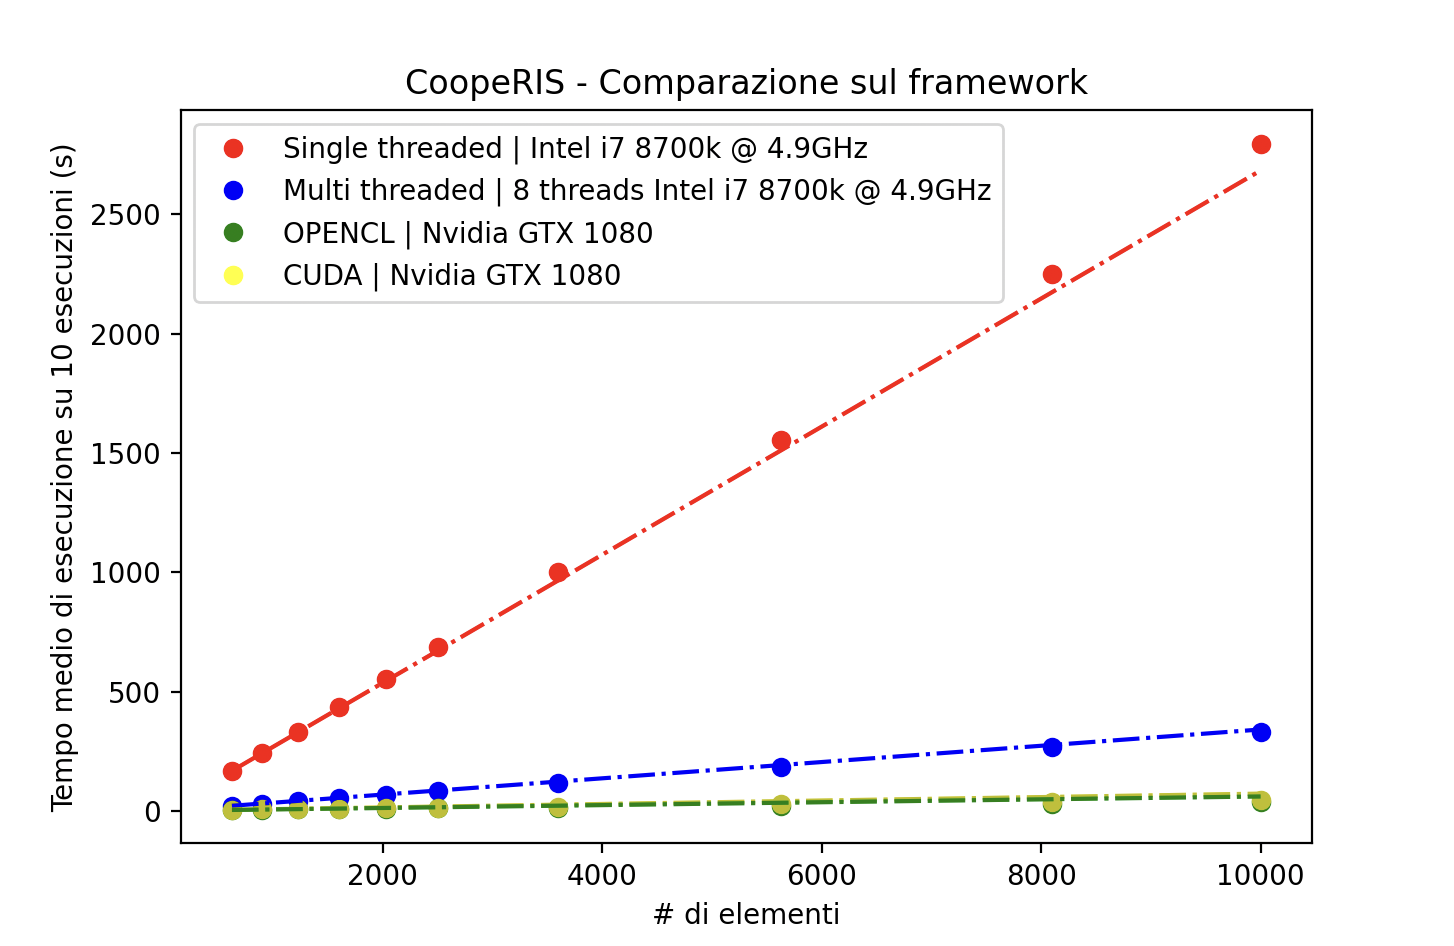
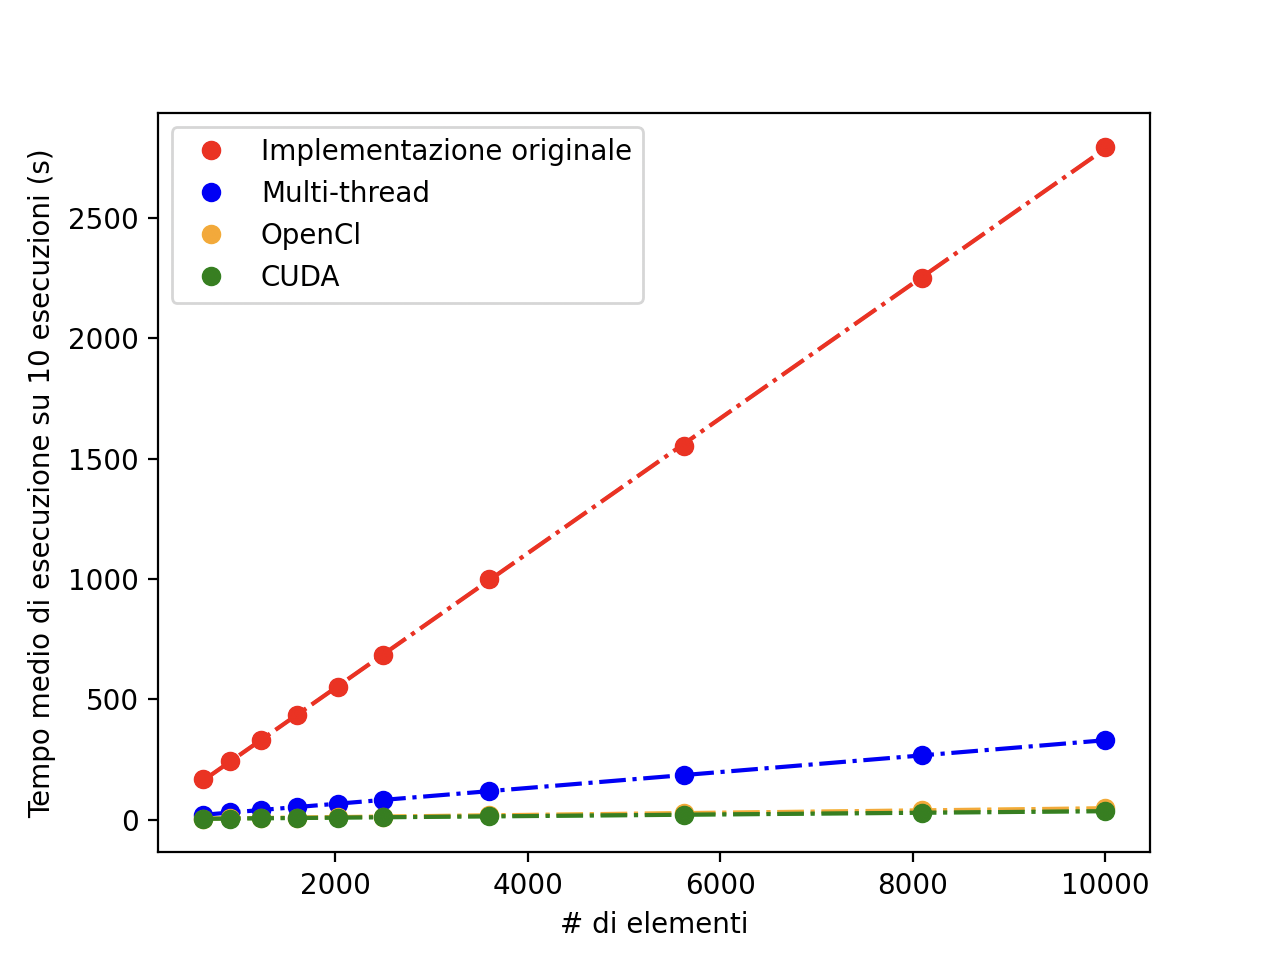
feat(cha 4): conclude writing

diff --git a/chapters/4-Risultati.tex b/chapters/4-Risultati.tex
@@ -1,24 +1,26 @@
 \chapter{Risultati}
 \label{ch:risultati}
 
-In questo capitolo verranno presentati i risultati ottenuti durante la fase di
-benchmarking della libreria nella procedura \textit{gain}, ovvero quella
-ottimizzata. Questa fase è di notevole importanza, in quanto permette di
-valutare il lavoro svolto, confrontando tutte le implementazioni tra loro, oltre
-all'implementazione originale, per avere un quadro completo della situazione finale.
+In questo capitolo vengono presentati i risultati ottenuti durante la fase di
+benchmarking della libreria e della procedura \textit{gain}, ovvero quella
+soggetta alle ottimizzazioni nel capitolo precedente. Questa fase è di notevole importanza,
+in quanto permette di valutare il lavoro svolto, confrontando tutti i framework di
+parallelizzazione tra loro, oltre che all'implementazione originale, per avere un
+quadro completo del prodotto finale.
 
 \section{Metodologia di valutazione}
 \label{sec:bencharmking}
 
-Per poter valutare le prestazioni della libreria, sono stati eseguiti diversi test di benchmarking,
-che hanno permesso di confrontare le diverse implementazioni tra loro. Inoltre,
-è stato fondamentale valutare la correttezza matematica della procedura
-modificata, per garantire che non siano stati introdotti errori durante la fase di
-programmazione, per tutti e tre i framework di parallelizzazione. In merito allo
-svolgimento, la liberia \textit{CoopeRIS} è dotata di un set di \textit{unit
-test}, che sono stati eseguiti durante la fase di sviluppo. Tutte le misurazioni
-sono state eseguite su macchine con diverse configurazioni hardware, per poter
-valutare le prestazioni in diversi scenari.
+Per poter valutare le prestazioni della libreria sono stati eseguiti diversi
+test di benchmarking che hanno permesso di confrontare tra loro le prestazioni, i
+miglioramenti e le differenze delle diverse soluzioni. Inoltre, è stato fondamentale
+valutare la correttezza matematica della procedura modificata per assicurarsi che
+non siano stati introdotti errori durante la fase di sviluppo, per tutti e tre i
+framework di parallelizzazione. In merito allo svolgimento, la liberia \textit{CoopeRIS}
+è dotata di un insieme di \textit{unit test} che sono stati eseguiti per
+garantirlo. Tutte le misurazioni delle tempistiche sono state eseguite su macchine
+con diverse configurazioni hardware per poter valutare le prestazioni in scenari
+differenti.
 
 \section{Benchmarking della libreria}
 \label{sec:benchmarking}
@@ -26,24 +28,41 @@ valutare le prestazioni in diversi scenari.
 Il benchmarking della procedura ottimizzata e della libreria è stato eseguito
 senza la necessità di alcuno dei framework esterni citati nel capitolo
 \ref{subsec:risframework}. Questo è stato essenziale per poter valutare le prestazioni
-della libreria in modo puro e indipendente. Per fare ciò, è stato creato un programma
-molto semplice, che ha eseguito ripetutamente le procedure sotto esame, misurando
-il tempo di esecuzione di ciascuna di esse. Il programma è stato eseguito su
-diverse macchine, soprattutto per
-poter valutare situazioni con un elevato numero di core CPU. Per garantire una maggiore
-precisione, ciascuna misurazione è stata eseguita più volte, da un minimo di dieci
-fino ad un massimo di mille, per calcolarne la media ed eliminare eventuali
-errori dovuti a fluttuazioni dell'ambiente di esecuzione.
+in modo puro e indipendente. Per fare ciò, è stato creato un programma molto semplice,
+che ha eseguito ripetutamente le procedure sotto esame, misurando tramite la libreria
+\textit{chrono} di C++ il tempo di esecuzione di ciascuna di esse. Il programma è
+stato eseguito su diverse macchine, soprattutto per poter valutare situazioni
+con un elevato numero di core CPU. Per garantire una maggiore precisione,
+ciascuna misurazione è stata eseguita più volte, da un minimo di dieci fino ad un
+massimo di mille, per calcolarne la media ed eliminare eventuali errori dovuti a
+fluttuazioni dell'ambiente di esecuzione.
 
 \subsection{Risultati complessivi}
 \label{subsec:risultati-complessivi}
 
 I risultati complessivi del benchmarking della libreria sulla procedura \textit{gain}
 sono stati molto positivi. Le ottimizzazioni apportate hanno ottenuto un notevole
-incremento prestazionale, raggiungendo in alcuni casi un incremento di
-prestazioni fino a due ordini di grandezza nei casi in cui le RISs contenevano
-il numero massimo di elementi supportati. Questo dimostra totalmente l'efficacia
-delle ottimizzazioni apportate.
+incremento prestazionale, raggiungendo in alcuni casi un aumento fino a due
+ordini di grandezza nei casi in cui le RISs presentavano il numero massimo di
+elementi supportati. Nelle figure \ref{fig:risultati-complessivi} e \ref{fig:risultati-complessivi-log}
+sono riportate le misurazioni del tempo di esecuzione, rispettivamente in scala
+lineare e scala logaritmica per una miglior visualizzazione dei dati, in funzione
+del numero di elementi della RIS simulata. I punti rappresentano rispettivamente
+i tempi campionati di esecuzione della procedura non ottimizzata e della
+procedura ottimizzata tramite multi-threading, OpenCL e CUDA, mentre le linee
+tratteggiate rappresentano il fit dei dati. L'interesse principale di quest'ultime
+è quello di valutare l'effettiva linearità in termini di complessità del problema
+e per individuare eventuali punti in cui l'aggiunta di procedure lineari per implementare
+la parallelizzazione possano aver introdotto un overhead non trascurabile. In
+figura \ref{fig:perc-better} è riportata la percentuale di tempo di esecuzione
+rispetto all'impostazione originale rispetto al numero di elementi della RIS. Tutti
+i test dimostrano una chiara superiorità delle soluzioni che sfruttano il calcolo
+parallelo, con le implementazioni su GPU che ottengono un tempo di esecuzione da
+l'\textit{1,2\%} all'{1,6\%} rispetto all'implementazione originale, mentre per
+quella su CPU si ottengono valori che variano dal \textit{10,2\%} al \textit{13,3\%},
+perfettamente in linea con l'ideale \textit{12,5\%} di miglioramento atteso. I benchmark
+sono stati eseguiti su una macchina con processore Intel Core i7-8700K, con 8
+core fisici e NVIDIA GeForce GTX 1080.
 
 \begin{figure}[!ht]
   \centering
@@ -52,60 +71,179 @@ delle ottimizzazioni apportate.
   scala lineare]{{\includegraphics[width=8cm]{images/results/gain-over-elem.png}\label{fig:risultati-complessivi}}}
   \subfloat[
   \centering
-  scala logaritmica]{{\includegraphics[width=8cm]{images/results/log-gain-over-elem.png}\label{fig:risultati-complessivi-log}}}
+  scala logaritmica]{{\includegraphics[width=8cm]{images/results/gain-log-over-elem.png}\label{fig:risultati-complessivi-log}}}
   \caption{Risultati complessivi del benchmarking}
 \end{figure}
 
-Nelle figure \ref{fig:risultati-complessivi} e
-\ref{fig:risultati-complessivi-log} sono riportati i risultati complessivi del
-benchmarking della libreria. La linea tratteggiata rappresenta il tempo di esecuzione
-ideale, calcolato come il tempo della procedura sul tempo con minor numero di
-elementi moltiplicato per ogni successivo numero di elementi. I punti invece rappresentano
-rispettivamente i tempi di esecuzione della procedura non ottimizzata e della procedura
-ottimizzata tramite multi-threading, OpenCL e CUDA. In figura \ref{fig:risultati-complessivi-log}
-sono riportati i risultati in scala logaritmica, per migliorare la leggibilità
-dei dati, soprattutto nei casi delle implementazioni tramite GPU.
+\begin{figure}[!ht]
+  \begin{minipage}[t]{0.5\linewidth}
+    \centering
+    \includegraphics[width=8cm]{images/results/gain-perc-better.png}
+    \begin{adjustwidth}
+      {0pt}{5pt}
+      \begin{varwidth}
+        {8cm}
+        \caption{Percentuale di tempo di esecuzione rispetto all'impostazione
+        originale}
+        \label{fig:perc-better}
+      \end{varwidth}
+    \end{adjustwidth}
+  \end{minipage}
+  \begin{minipage}[t]{0.5\linewidth}
+    \centering
+    \includegraphics[width=8cm]{images/results/gain-comp-threads.png}
+    \begin{adjustwidth}
+      {0pt}{5pt}
+      \begin{varwidth}
+        {8cm}
+        \caption{Comparazione performance tra diverso numero di thread}
+        \label{fig:risultati-cpu}
+      \end{varwidth}
+    \end{adjustwidth}
+  \end{minipage}
+\end{figure}
 
 \subsection{Risultati: CPU single-thread vs multi-thread}
 \label{subsec:risultati-cpu}
 
 Particolare attenzione è stata posta nel confronto tra l'implementazione
-originale e multi-thread della procedura \textit{gain}. Molteplici test e
-benchmark sono stati eseguiti per valutare le prestazioni con diversi numeri di
-thread CPU. In figura \ref{fig:risultati-cpu} sono riportati i risultati ottenuti
-al variare del numero di thread utilizzati, per quattro delle configurazioni di
-elementi RISs. Si evince chiaramente come l'implementazione multi-thread, ad un
-numero di thread molto elevato, saturi le prestazioni della CPU e non permetta di
-ottenere ulteriori incrementi prestazionali, dovuto al crescente aumento lineare
-di overhead necessario all'avvio e sincronizzazione di tutti i thread. Si noti inoltre
-come, superata la soglia dei \textit{65} thread, si verifichi un fenomeno dove l'aggiunta
-di un thread che necessariamente deve essere eseguito tramite \textit{hyperthreading},
-riduca la performance generale della procedura. Invece, in figura
+originale e multi-thread. Molteplici test e benchmark sono stati eseguiti per valutare
+le prestazioni con diversi numeri di thread CPU. In figura
+\ref{fig:risultati-cpu} sono riportati i risultati ottenuti al variare del
+numero di thread utilizzati per quattro delle configurazioni di elementi RISs, nello
+specifico \textit{625}, \textit{2500}, \textit{5625} e \textit{10000} elementi.
+Si evince chiaramente come la soluzione multi-thread, ad un numero di thread molto
+elevato, saturi le prestazioni della CPU e non permetta di ottenere ulteriori
+incrementi prestazionali, dovuto al crescente overhead introdotto per processare
+i risultati parziali dei thread, oltre al costo di creazione e gestione dei
+thread stessi. Il caso più interessante è quello con \textit{625} elementi, dove
+si può osservare chiaramente come da circa \textit{60} thread in poi, il costo di
+un ulteriore thread peggiori le prestazioni della procedura, rendendo quindi
+inutile ogni ulteriore incremento. Si noti inoltre come, superata la soglia dei
+\textit{65} thread, si verifichi un fenomeno dove l'aggiunta di un thread che
+necessariamente deve essere eseguito tramite \textit{hyperthreading}, riduca la
+performance generale della procedura. Invece, in figura
 \ref{fig:jobs-per-thread} è riportato il confronto tra la grandezza dei dati da
-elaborare per thread, al variare del numero di thread utilizzati. Si ritrovano
+elaborare per thread, al variare del numero di thread utilizzati. Si ritrova
 anche qui lo stesso fenomeno di diminuzione delle prestazioni dovuto all'\textit{hyperthreading}.
+Per concludere, in figura \ref{fig:thread-over-elem} è riportato il confronto tra
+il numero di elementi RISs e il numero di thread utilizzati, in scala
+logaritmica. Anche qui, la linea tratteggiata rappresenta il fit dei dati, che evidenzia
+l'effettiva linearità del problema e la corretta scalabilità della procedura.
+Inoltre si osserva come, nei casi con numero di elementi RISs basso, le
+misurazioni con numero massimo di thread siano leggermente inferiori rispetto a
+quelle con un numero minore, evidenziando l'overhead introdotto da questo tipo di
+parallelizzazione. Questi dati sono di fondamentale importanza per poter
+valutare il numero ottimale di thread da utilizzare per ottenere le migliori
+prestazioni possibili. I test in riferimento sono stati eseguiti su una macchina
+con processore AMD Ryzen Threadripper 3990X, con 64 core fisici e 128 thread per
+le figure \ref{fig:risultati-cpu} e \ref{fig:jobs-per-thread}, mentre per la figura
+\ref{fig:thread-over-elem} su 2x Intel Xeon E5-2680 v4, con 14 core fisici e 28
+thread, quindi 56 thread in totale.
 
 \begin{figure}[!ht]
   \begin{minipage}[t]{0.5\linewidth}
     \centering
-    \includegraphics[width=8cm]{images/results/comp-threads.png}
-    \caption{Comparazione performance tra diverso numero di thread}
-    \label{fig:risultati-cpu}
+    \includegraphics[width=8cm]{images/results/gain-jobs-per-thread.png}
+    \begin{adjustwidth}
+      {5pt}{0pt}
+      \begin{varwidth}
+        {8cm}
+        \caption{Comparazione per grandezza di dati da computare per thread}
+        \label{fig:jobs-per-thread}
+      \end{varwidth}
+    \end{adjustwidth}
   \end{minipage}
   \begin{minipage}[t]{0.5\linewidth}
     \centering
-    \includegraphics[width=8cm]{images/results/jobs-per-thread.png}
-    \caption{Comparazione per grandezza di dati da computare per thread}
-    \label{fig:jobs-per-thread}
+    \includegraphics[width=8cm]{images/results/gain-thread-over-elem.png}
+    \begin{adjustwidth}
+      {5pt}{0pt}
+      \begin{varwidth}
+        {8cm}
+        \caption{Comparazione per thread al variare del numero di elementi RISs}
+        \label{fig:thread-over-elem}
+      \end{varwidth}
+    \end{adjustwidth}
   \end{minipage}
 \end{figure}
 
-\subsection{Risultati: Cuda vs OpenCL}
+\subsection{Risultati: CUDA vs OpenCL}
 \label{subsec:risultati-cuda-opencl}
 
-\lipsum[1]
+In figura \ref{fig:risultati-cuda-opencl} si trova la comparazione percentuale delle
+prestazioni dei framework GPU al variare del numero di elementi RISs. La
+baseline al \textit{100\%} rappresenta il tempo di esecuzione della procedura tramite
+CUDA allo specifico numero di elementi. Si può osservare come l'implementazione
+tramite CUDA sia leggermente più performante rispetto a quella tramite OpenCL, con
+una diminuzione prestazionale che varia dal 20\% al 37,5\%. Inoltre nella
+misurazione è stato volutamente omesso il tempo di inizializzazione degli
+oggetti \textit{ReconfigurableIntelligentSurface}, che in OpenCL comprende la
+compilazione del kernel della funzione \textit{gain} a runtime, poiché è un'operazione
+che viene eseguita una sola volta all'avvio del framework e non impattante nel
+contesto generale di una simulazione. I risultati sono stati ottenuti su una macchina
+con scheda grafica NVIDIA GeForce GTX 1080.
 
-\section{Dimostrazione sul framework}
+\begin{figure}[!ht]
+  \begin{minipage}[t]{0.5\linewidth}
+    \centering
+    \includegraphics[width=8cm]{images/results/gain-cuda-vs-opencl.png}
+    \begin{adjustwidth}
+      {0pt}{5pt}
+      \begin{varwidth}
+        {8cm}
+        \caption{Differenza percentuale tra CUDA e OpenCL}
+        \label{fig:risultati-cuda-opencl}
+      \end{varwidth}
+    \end{adjustwidth}
+  \end{minipage}
+  \begin{minipage}[t]{0.5\linewidth}
+    \centering
+    \includegraphics[width=8cm]{images/framework/framework-example.png}
+    \begin{adjustwidth}
+      {5pt}{0pt}
+      \begin{varwidth}
+        {8cm}
+        \caption{Scenario di esempio del framework}
+        \label{fig:framework-scenario}
+      \end{varwidth}
+    \end{adjustwidth}
+  \end{minipage}
+\end{figure}
+
+\vfill
+
+\section{Dimostrazione di una simulazione sul framework}
 \label{sec:dimostrazione}
 
-\lipsum[1]
+Come dimostrazione finale, si vogliono portare i risultati delle simulazione
+tramite tutte le implementazioni della libreria, compresa quella originale, all'interno
+del framework nello scenario di esempio raffigurato in figura
+\ref{fig:framework-scenario}. Esso consiste in una RIS e un edificio che separa due
+veicoli, uno in movimento e l'altro fermo, che comunicano tramite un canale che non
+sarebbe possibile senza l'ausilio della RIS data la presenza dell'edificio. Gli
+esiti delle misurazioni, consultabili nelle figure \ref{fig:risultati-framework}
+e \ref{fig:risultati-framework-log} rispettivamente in scala lineare e logaritmica,
+sono completamente in linea con quelli ottenuti durante il benchmarking della
+libreria. Specificamente, si rilevano incrementi prestazionali da un minimo di
+37 volte fino ad un massimo di 80 nel caso in cui la RIS possedeva il numero
+massimo di elementi supportati tramite parallelizzazione su GPU, e un miglioramento
+di circa 8 volte per tutte le configurazioni della RIS tramite parallelizzazione
+su CPU, perfettamente lineare con il numero di thread utilizzati considerando il
+tempo di inizializzazione dei framework. Questi risultati denotano pienamente l'efficacia
+dell'implementazione di soluzioni tramite calcolo parallelo apportate alla libreria,
+e la loro applicabilità in scenari reali. Le simulazioni sono state eseguite su una
+macchina con processore Intel Core i7-8700K, con 8 core fisici e NVIDIA GeForce
+GTX 1080.
+
+\begin{figure}[!ht]
+  \centering
+  \subfloat[
+  \centering
+  scala lineare]{{\includegraphics[width=8cm]{images/results/framework-over-elem.png}\label{fig:risultati-framework}}}
+  \subfloat[
+  \centering
+  scala logaritmica]{{\includegraphics[width=8cm]{images/results/log-framework-over-elem.png}\label{fig:risultati-framework-log}}}
+  \caption{Risultati del benchmarking su una simulazione reale tramite il
+  framework}
+\end{figure}

diff --git a/main.tex b/main.tex
@@ -42,6 +42,10 @@
 \usepackage{algorithm}
 \usepackage{algpseudocode}
 
+% Padding
+\usepackage{changepage}
+\usepackage{varwidth}
+
 % START: DELETE ME
 \usepackage{lipsum}
 % END: DELETE ME
